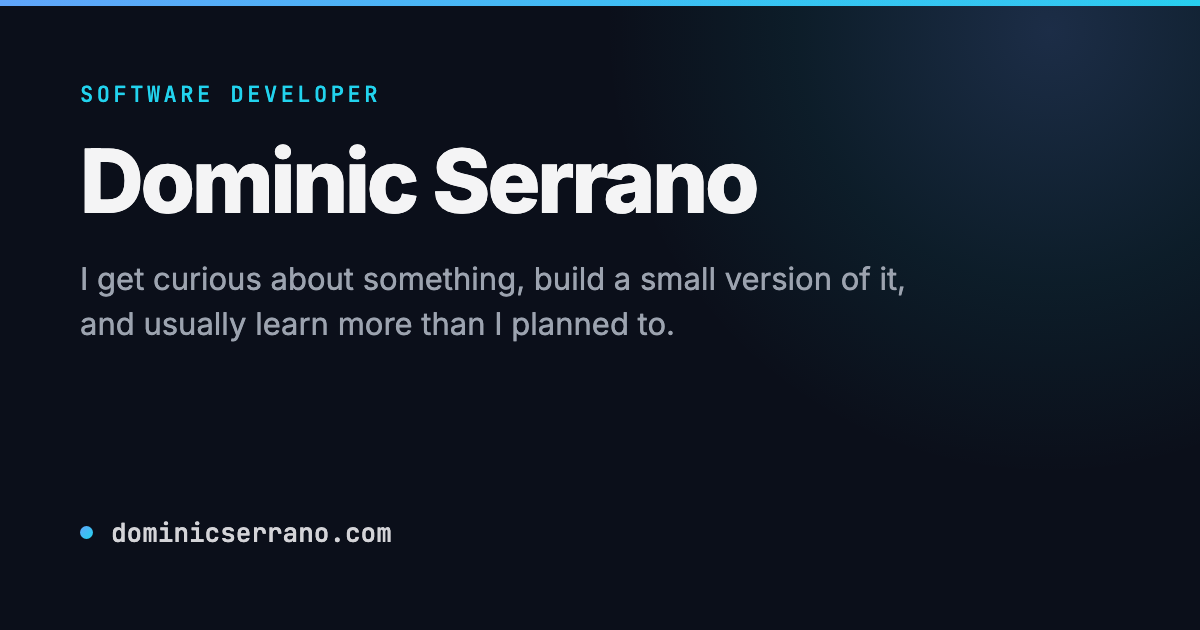
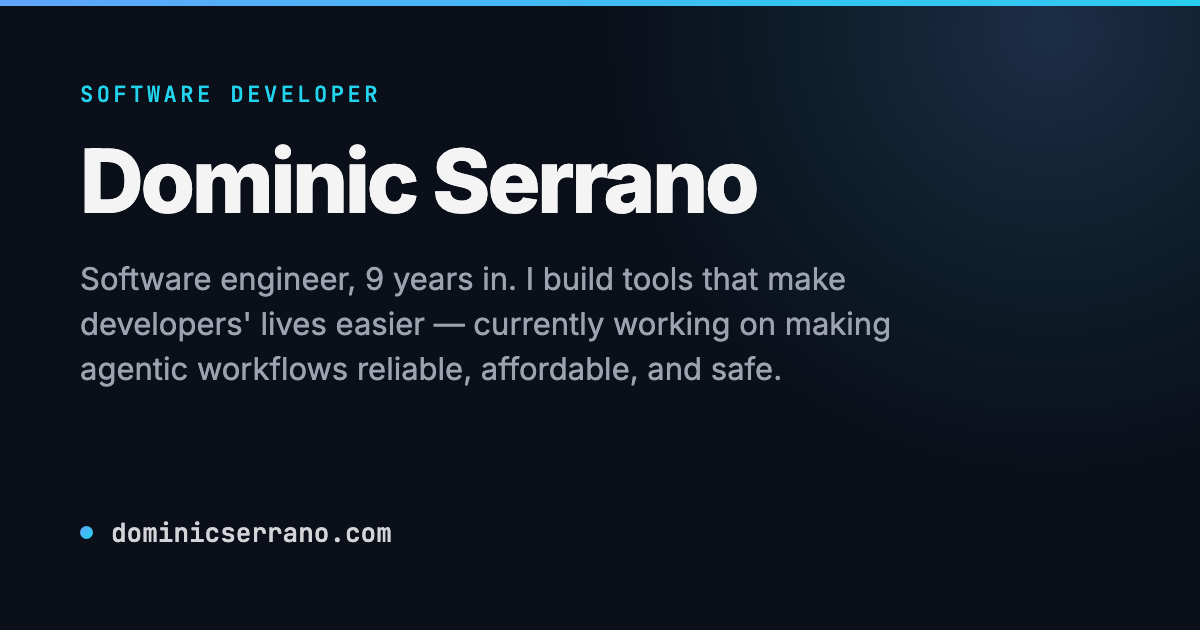
Update site-wide share card with current bio (#43)

Changed region(s): [[0.0617, 0.4222, 0.7708, 0.5429], [0.0617, 0.573, 0.6475, 0.6032]]

diff --git a/scripts/og-image.html b/scripts/og-image.html
@@ -28,7 +28,7 @@
   <div class="top">
     <div class="kicker">Software Developer</div>
     <h1>Dominic Serrano</h1>
-    <p>I get curious about something, build a small version of it, and usually learn more than I planned to.</p>
+    <p>Software engineer, 9 years in. I build tools that make developers' lives easier — currently working on making agentic workflows reliable, affordable, and safe.</p>
   </div>
   <div class="bottom"><div class="dot"></div><div class="domain">dominicserrano.com</div></div>
 </body></html>
